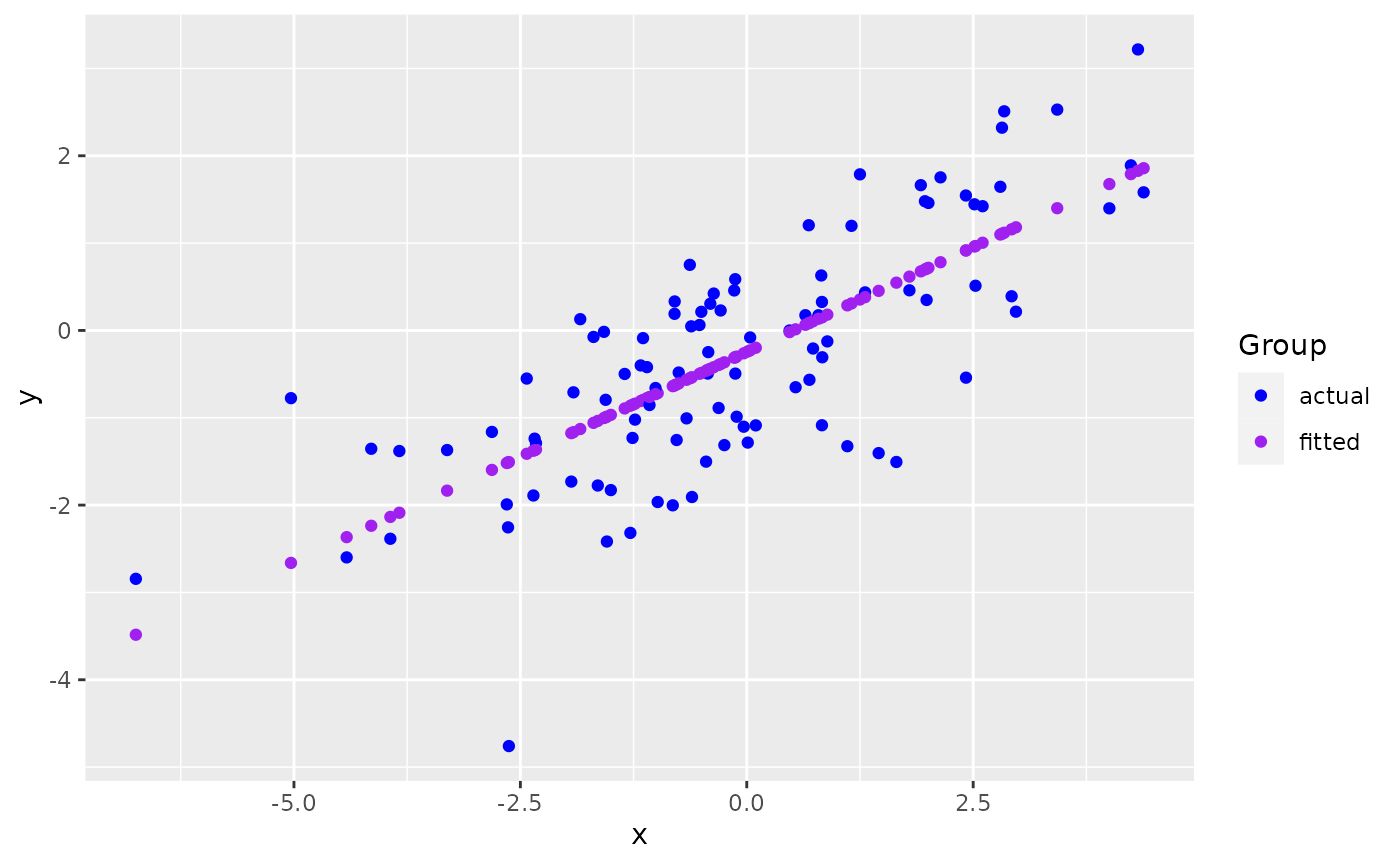
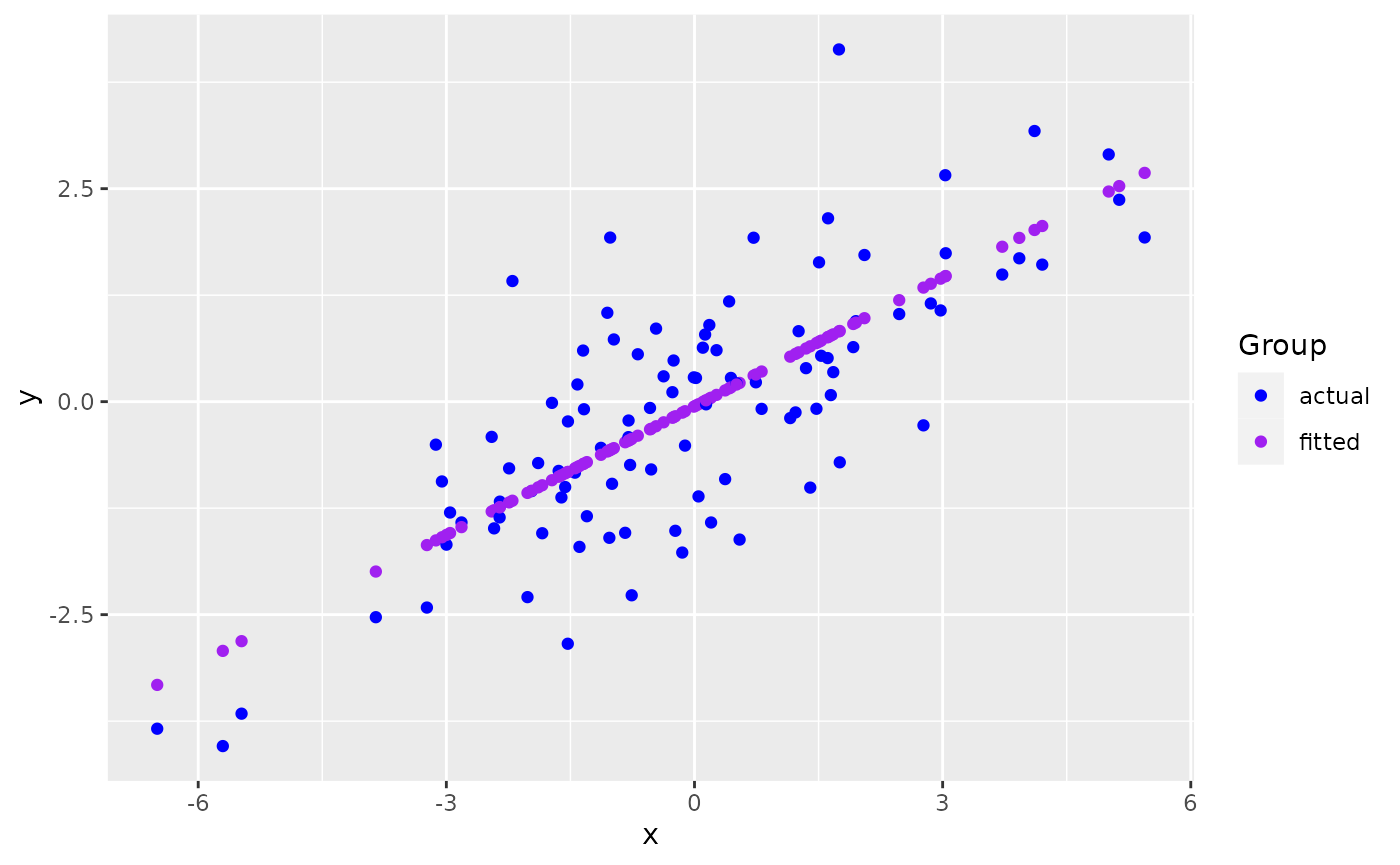
Built site for ggmatplot: 0.1.0@74edcc3

diff --git a/articles/ggmatplot.html b/articles/ggmatplot.html
@@ -103,7 +103,7 @@
 <span class="va">x</span> <span class="op">&lt;-</span> <span class="fu"><a href="https://rdrr.io/r/base/c.html" class="external-link">c</a></span><span class="op">(</span><span class="fu"><a href="https://rdrr.io/r/stats/Normal.html" class="external-link">rnorm</a></span><span class="op">(</span><span class="fl">100</span>, sd <span class="op">=</span> <span class="fl">2</span><span class="op">)</span><span class="op">)</span>
 
 <span class="fu"><a href="https://rdrr.io/r/utils/head.html" class="external-link">head</a></span><span class="op">(</span><span class="va">x</span><span class="op">)</span>
-<span class="co">#&gt; [1] -3.308947  1.249823  2.514470  1.967458 -1.285188 -1.577040</span>
+<span class="co">#&gt; [1]  0.4404943  1.6095124  1.2214602 -1.4454016 -3.1267763 -0.8381971</span>
 
 <span class="co"># matrix z</span>
 <span class="va">y</span> <span class="op">&lt;-</span> <span class="va">x</span> <span class="op">*</span> <span class="fl">0.5</span> <span class="op">+</span> <span class="fu"><a href="https://rdrr.io/r/stats/Normal.html" class="external-link">rnorm</a></span><span class="op">(</span><span class="fl">100</span>, sd <span class="op">=</span> <span class="fl">1</span><span class="op">)</span>
@@ -113,12 +113,12 @@
 
 <span class="fu"><a href="https://rdrr.io/r/utils/head.html" class="external-link">head</a></span><span class="op">(</span><span class="va">z</span><span class="op">)</span>
 <span class="co">#&gt;       actual     fitted</span>
-<span class="co">#&gt; 1 -1.3697243 -1.8345312</span>
-<span class="co">#&gt; 2  1.7872837  0.3540159</span>
-<span class="co">#&gt; 3  1.4443336  0.9611403</span>
-<span class="co">#&gt; 4  1.4795318  0.6985340</span>
-<span class="co">#&gt; 5 -2.3185459 -0.8629771</span>
-<span class="co">#&gt; 6 -0.0161435 -1.0030874</span></code></pre></div>
+<span class="co">#&gt; 1  0.2786339  0.1671939</span>
+<span class="co">#&gt; 2  0.5115674  0.7556950</span>
+<span class="co">#&gt; 3 -0.1264200  0.5603438</span>
+<span class="co">#&gt; 4 -0.8334355 -0.7821941</span>
+<span class="co">#&gt; 5 -0.5047518 -1.6286232</span>
+<span class="co">#&gt; 6 -1.5394507 -0.4765184</span></code></pre></div>
 <p><code>ggmatplot</code> plots vector <code>x</code> against each column of matrix <code>z</code> using the default <code>plot_type = "point"</code>. This will be represented on the resulting plot as two groups, identified using different shapes and colors.</p>
 <div class="sourceCode" id="cb2"><pre class="downlit sourceCode r">
 <code class="sourceCode R"><span class="kw"><a href="https://rdrr.io/r/base/library.html" class="external-link">library</a></span><span class="op">(</span><span class="va"><a href="https://github.com/xuan-liang/ggmatplot" class="external-link">ggmatplot</a></span><span class="op">)</span>
